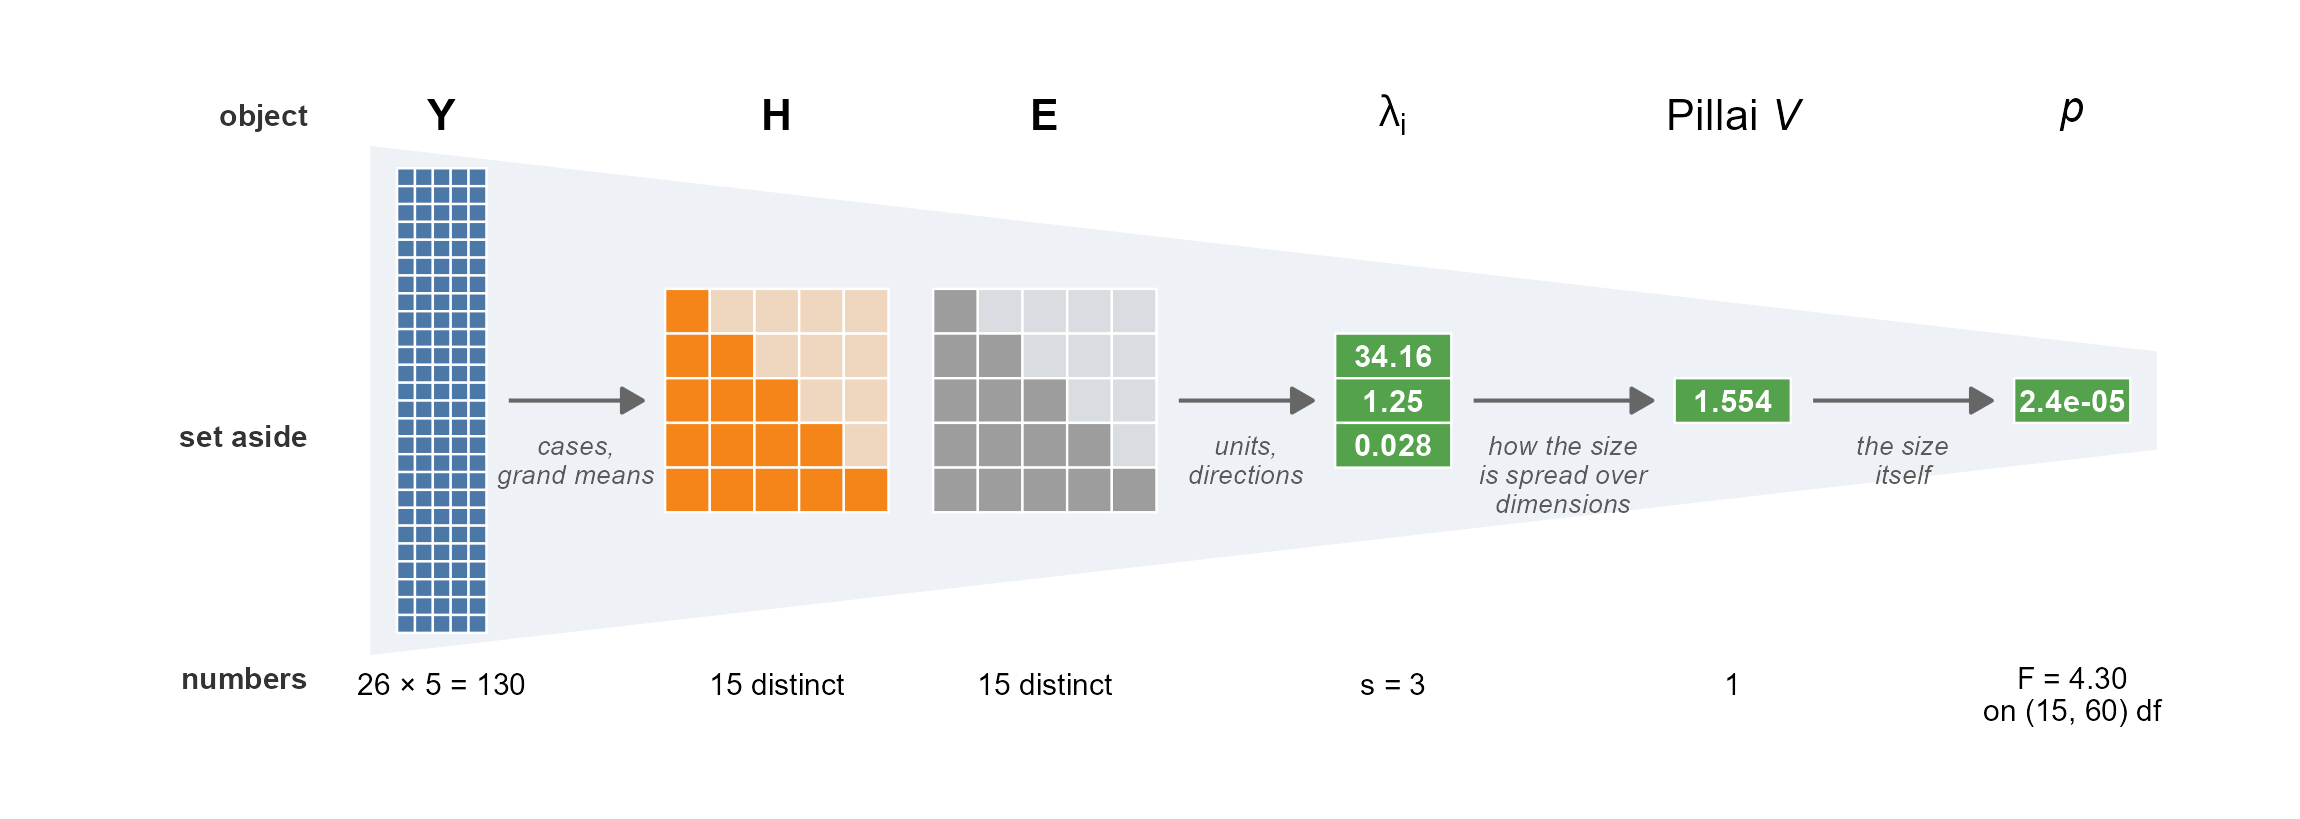
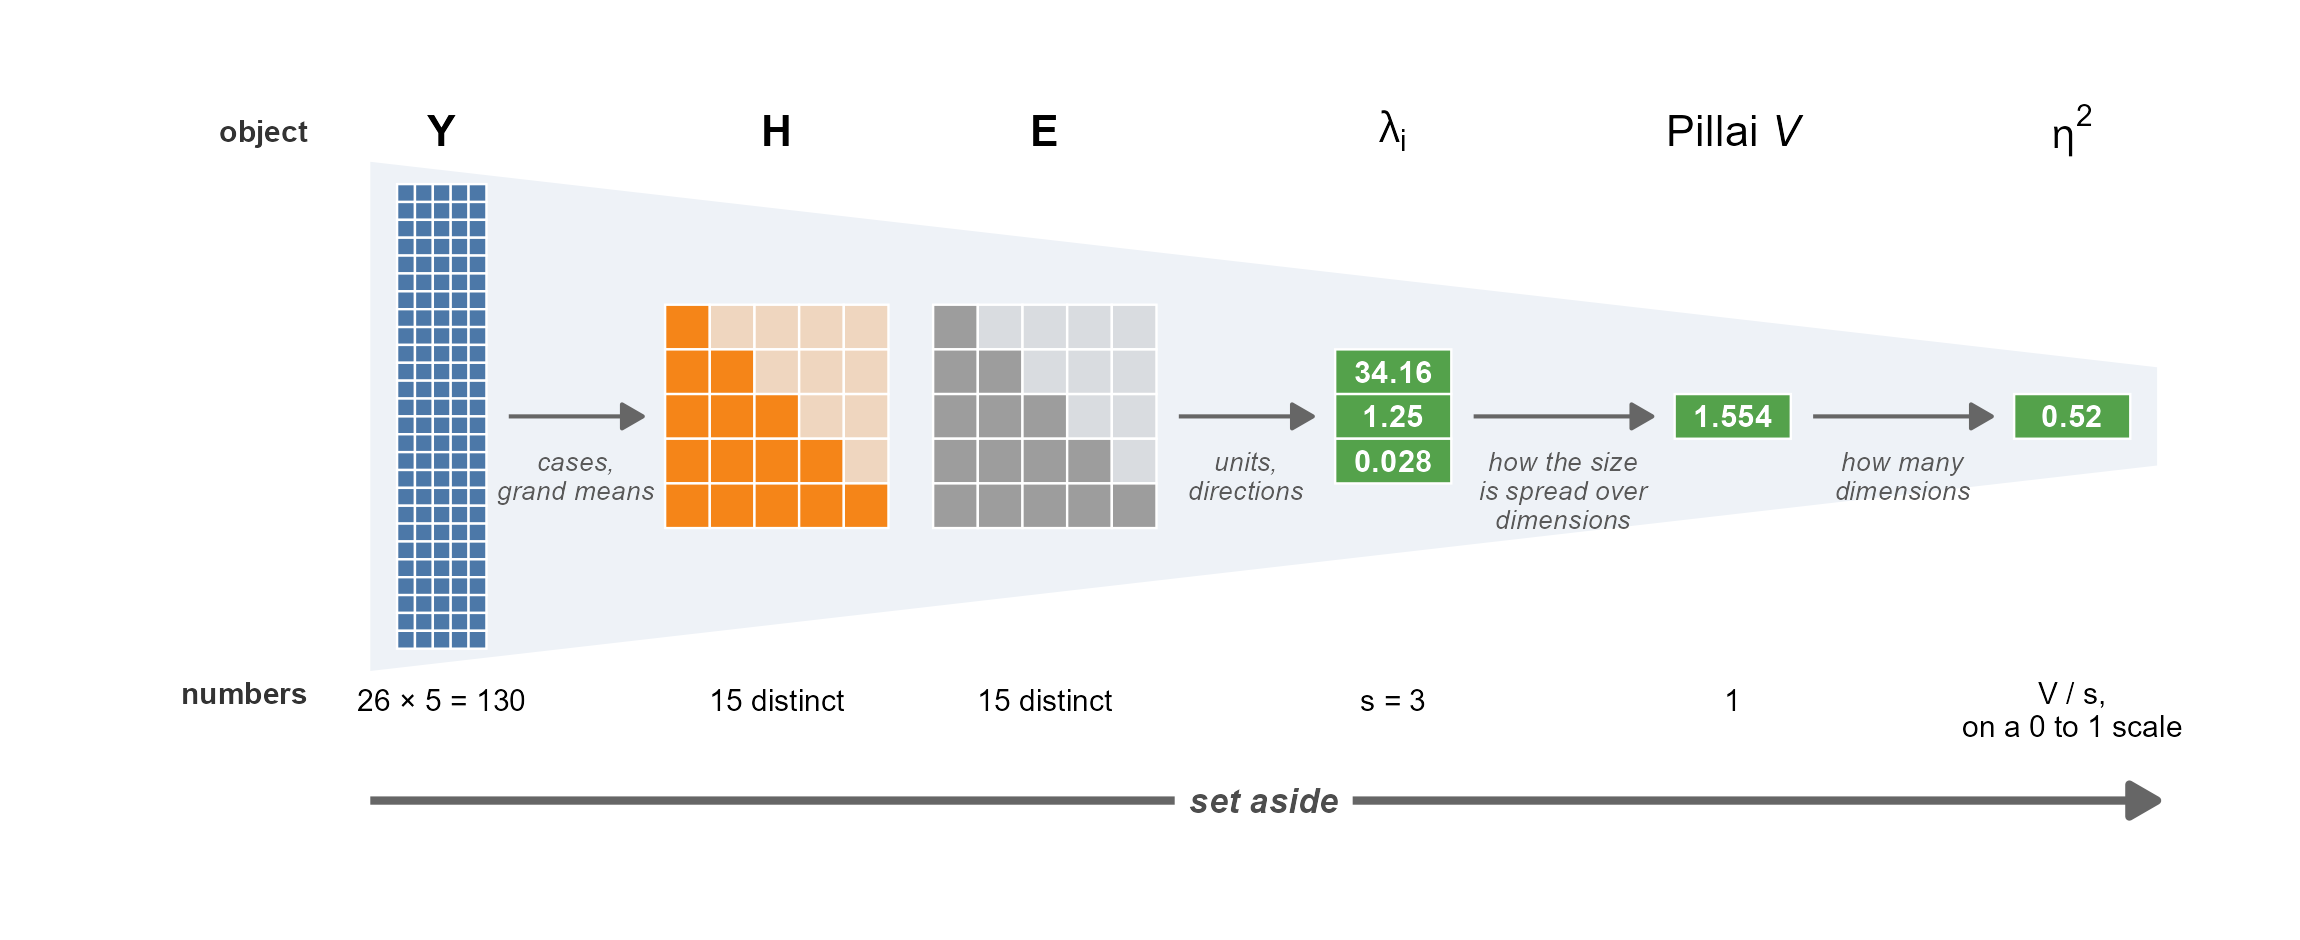
How-big Fig. 1: 'set aside' as a long arrow; last rung is eta^2, not a p-value; caption

diff --git a/blog/drafts/How-big/index.html b/blog/drafts/How-big/index.html
@@ -252,13 +252,13 @@ shadows" are stubs, each pointing to its section of Reducing-dimensions-notes.md
 <section id="climbing-back-down" class="level2">
 <h2 class="anchored" data-anchor-id="climbing-back-down">Climbing back down</h2>
 <p>Here’s the whole trip in one picture, for the Pottery data used in the first post: the chemical composition (Al, Fe, Mg, Ca, Na) of 26 samples of Romano-British pottery from four kiln sites. The question is whether the sites differ.</p>
-<div id="fig-reducing-ladder" class="quarto-float quarto-figure quarto-figure-center anchored" alt="A funnel narrowing from left to right. Left: the data matrix Y, 26 by 5, drawn as 130 small blue cells. Then the 5 by 5 matrices H, in orange, and E, in grey, with their 15 distinct elements shaded. Then a column of three green cells, the eigenvalues 34.16, 1.25 and 0.028. Then one green cell, Pillai's V = 1.554, and finally one more, p = 2.4e-05, from F = 4.30 on 15 and 60 df. Under each arrow is what that step sets aside: cases and grand means; units and directions; how the size is spread over dimensions; the size itself.">
+<div id="fig-reducing-ladder" class="quarto-float quarto-figure quarto-figure-center anchored" alt="A funnel narrowing from left to right. Left: the data matrix Y, 26 by 5, drawn as 130 small blue cells. Then the 5 by 5 matrices H, in orange, and E, in grey, with their 15 distinct elements shaded. Then a column of three green cells, the eigenvalues 34.16, 1.25 and 0.028. Then one green cell, Pillai's V = 1.554, and finally one more, the effect size eta-squared = V / s = 0.52, on a 0 to 1 scale. Under each arrow is what that step sets aside: cases and grand means; units and directions; how the size is spread over dimensions; how many dimensions. A long arrow along the bottom is labeled set aside.">
 <figure class="quarto-float quarto-float-fig figure">
 <div aria-describedby="fig-reducing-ladder-caption-0ceaefa1-69ba-4598-a22c-09a6ac19f8ca">
-<img src="images/reducing-ladder.png" class="img-fluid figure-img" style="width:100.0%" alt="A funnel narrowing from left to right. Left: the data matrix Y, 26 by 5, drawn as 130 small blue cells. Then the 5 by 5 matrices H, in orange, and E, in grey, with their 15 distinct elements shaded. Then a column of three green cells, the eigenvalues 34.16, 1.25 and 0.028. Then one green cell, Pillai's V = 1.554, and finally one more, p = 2.4e-05, from F = 4.30 on 15 and 60 df. Under each arrow is what that step sets aside: cases and grand means; units and directions; how the size is spread over dimensions; the size itself.">
+<img src="images/reducing-ladder.png" class="img-fluid figure-img" style="width:100.0%" alt="A funnel narrowing from left to right. Left: the data matrix Y, 26 by 5, drawn as 130 small blue cells. Then the 5 by 5 matrices H, in orange, and E, in grey, with their 15 distinct elements shaded. Then a column of three green cells, the eigenvalues 34.16, 1.25 and 0.028. Then one green cell, Pillai's V = 1.554, and finally one more, the effect size eta-squared = V / s = 0.52, on a 0 to 1 scale. Under each arrow is what that step sets aside: cases and grand means; units and directions; how the size is spread over dimensions; how many dimensions. A long arrow along the bottom is labeled set aside.">
 </div>
 <figcaption class="quarto-float-caption-bottom quarto-float-caption quarto-float-fig" id="fig-reducing-ladder-caption-0ceaefa1-69ba-4598-a22c-09a6ac19f8ca">
-Figure&nbsp;1: Coming down the ladder for the Pottery MANOVA. Each step keeps fewer numbers, and each sets something aside.
+Figure&nbsp;1: Coming down the ladder for the Pottery MANOVA. Each step keeps fewer numbers. Each sets something aside, and concentrates the information in a better summary.
 </figcaption>
 </figure>
 </div>
@@ -267,8 +267,9 @@ Figure&nbsp;1: Coming down the ladder for the Pottery MANOVA. Each step keeps fe
 <li>The 130 numbers in <strong>Y</strong> become two <span class="math inline">\(5 \times 5\)</span> matrices, <strong>H</strong> for the differences among the site means and <strong>E</strong> for the variation within sites. These keep 15 distinct numbers each, and set aside the individual cases and the grand means.</li>
 <li><strong>H</strong> and <strong>E</strong> become <span class="math inline">\(s = 3\)</span> eigenvalues, <span class="math inline">\(\lambda_i\)</span>, the nonzero roots of <span class="math inline">\(\mathbf{H}\mathbf{E}^{-1}\)</span>. These set aside the units of the responses and the directions of the effect.</li>
 <li>The eigenvalues become one number, here Pillai’s trace, <span class="math inline">\(V\)</span>. This sets aside how the size of the effect is spread over the dimensions.</li>
-<li><span class="math inline">\(V\)</span> becomes a <span class="math inline">\(p\)</span>-value, which sets aside the size itself and keeps only the evidence.</li>
+<li><span class="math inline">\(V\)</span> becomes an effect size, <span class="math inline">\(\eta^2 = V / s = 0.52\)</span>, the proportion of the multivariate variation explained by the sites. Dividing by <span class="math inline">\(s\)</span> sets aside how many dimensions there are, and puts the answer on a 0 to 1 scale that any reader can compare.</li>
 </ul>
+<p>Every rung is still an answer to “how big?”. A <span class="math inline">\(p\)</span>-value would be a different kind of answer: it sets aside the size itself and keeps only the evidence, so it doesn’t belong on this ladder.</p>
 <p>Each step is a choice, and each choice is a reasonable answer to “how big?”. The rest of this post is about those choices, and about the pictures that show what each one keeps.</p>
 <p>There’s a trade-off in coming down the ladder, and Hadley Wickham put it neatly. In a 2013 talk, as <a href="https://www.johndcook.com/blog/2013/02/07/visualization-modeling-and-surprises/">John D. Cook paraphrased it</a>, “Visualization can surprise you, but it doesn’t scale well. Modeling scales well, but it can’t surprise you.” In <em>R for Data Science</em> he and his co-authors give the reason <span class="citation" data-cites="Wickham-etal:2023:r4ds WickhamGrolemund:2017">(<a href="#ref-Wickham-etal:2023:r4ds" role="doc-biblioref">Wickham et al. 2023</a>; first edition <a href="#ref-WickhamGrolemund:2017" role="doc-biblioref">Wickham and Grolemund 2017</a>)</span>: “Visualizations can surprise you, but they don’t scale particularly well because they require a human to interpret them.” Models scale, but every model makes assumptions it can’t question, and so “a model cannot fundamentally surprise you.”</p>
 <p>Every step down the ladder trades a little more surprise for a little more scale. A single number, like a <span class="math inline">\(p\)</span>-value, scales to any number of tests, but it will never show you something you didn’t think to ask. That’s why I want to stop at each rung and look.</p>
